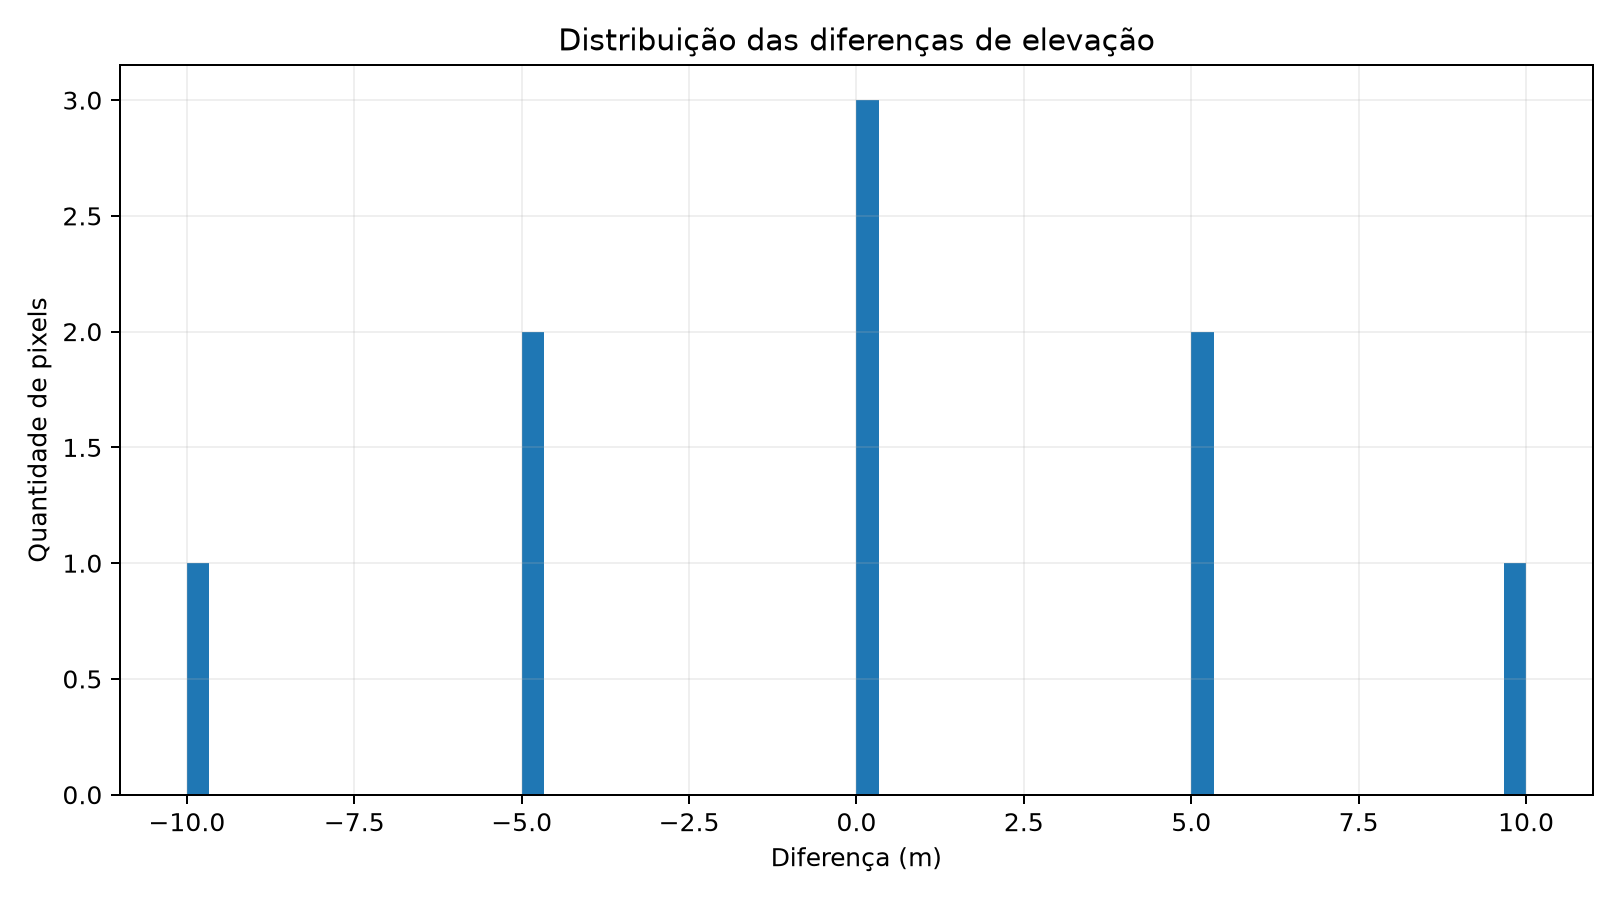
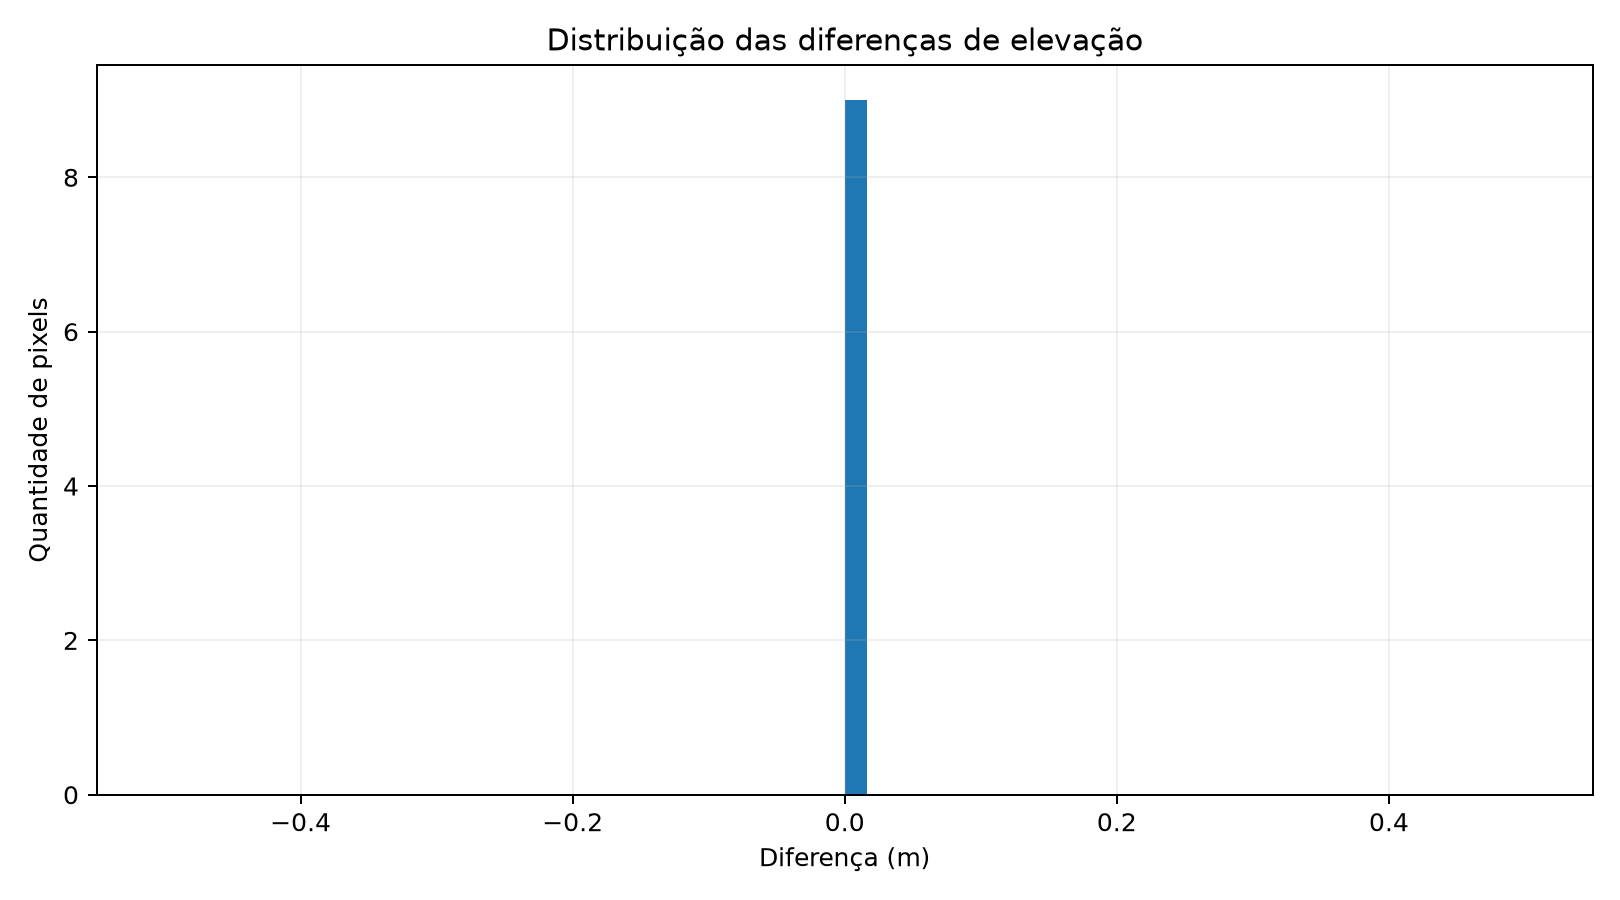
Add files via upload

diff --git a/analise-forense-terravision-matheus--main/teste_crs.py b/analise-forense-terravision-matheus--main/teste_crs.py
@@ -1,0 +1,47 @@
+import numpy as np
+import rasterio
+from rasterio.transform import from_bounds
+from rasterio.warp import transform_bounds
+
+# Limites geográficos aproximados do MDE anterior
+limites = transform_bounds(
+    "EPSG:4326",
+    "EPSG:3857",
+    -50.000,
+    -5.003,
+    -49.997,
+    -5.000
+)
+
+# Pequena margem para garantir cobertura completa
+largura = limites[2] - limites[0]
+altura = limites[3] - limites[1]
+
+esquerda = limites[0] - largura * 0.01
+direita = limites[2] + largura * 0.01
+inferior = limites[1] - altura * 0.01
+superior = limites[3] + altura * 0.01
+
+perfil = {
+    "driver": "GTiff",
+    "height": 6,
+    "width": 6,
+    "count": 1,
+    "dtype": "float32",
+    "crs": "EPSG:3857",
+    "transform": from_bounds(
+        esquerda, inferior, direita, superior, 6, 6
+    ),
+    "nodata": -9999
+}
+
+dados = np.full((6, 6), 100, dtype="float32")
+
+with rasterio.open(
+    "dados/entrada/posterior_crs.tif",
+    "w",
+    **perfil
+) as arquivo:
+    arquivo.write(dados, 1)
+
+print("GeoTIFF com CRS diferente criado!")

diff --git a/analise-forense-terravision-matheus--main/teste_dados_ausentes.py b/analise-forense-terravision-matheus--main/teste_dados_ausentes.py
@@ -1,0 +1,42 @@
+
+import numpy as np
+import rasterio
+from rasterio.transform import from_origin
+
+perfil = {
+    "driver": "GTiff",
+    "height": 3,
+    "width": 3,
+    "count": 1,
+    "dtype": "float32",
+    "crs": "EPSG:4326",
+    "transform": from_origin(-50, -5, 0.001, 0.001),
+    "nodata": -9999
+}
+
+# MDE anterior
+anterior = np.array([
+    [100, 100, 100],
+    [100, 100, 100],
+    [100, 100, 100]
+], dtype="float32")
+
+# MDE posterior com um pixel sem informação
+posterior = np.array([
+    [105, 100, 95],
+    [110, -9999, 90],
+    [105, 100, 95]
+], dtype="float32")
+
+for nome, dados in [
+    ("anterior_ausentes.tif", anterior),
+    ("posterior_ausentes.tif", posterior)
+]:
+    with rasterio.open(
+        f"dados/entrada/{nome}",
+        "w",
+        **perfil
+    ) as arquivo:
+        arquivo.write(dados, 1)
+
+print("Arquivos com dados ausentes criados!")

diff --git a/analise-forense-terravision-matheus--main/resultados/relatorio_minevision.md b/analise-forense-terravision-matheus--main/resultados/relatorio_minevision.md
@@ -2,9 +2,9 @@
 
 ## Identificação
 - **Área de estudo:** Serra dos Carajás, Pará
-- **Data de processamento:** 07/11/2026 11:26
+- **Data de processamento:** 09/11/2026 10:03
 - **MDE anterior:** `anterior.tif`
-- **MDE posterior:** `posterior.tif`
+- **MDE posterior:** `posterior_crs.tif`
 
 ## Objetivo
 Comparar dois modelos digitais de elevação (MDEs) espacialmente alinhados para identificar diferenças na superfície representada.
@@ -22,11 +22,11 @@ Valores negativos indicam uma superfície representada mais baixa no segundo mod
 | Pixels válidos | 9 |
 | Diferença média | 0.000 m |
 | Mediana | 0.000 m |
-| Mínima | -10.000 m |
-| Máxima | 10.000 m |
-| Desvio padrão | 5.774 m |
-| Percentil 5 | -8.000 m |
-| Percentil 95 | 8.000 m |
+| Mínima | 0.000 m |
+| Máxima | 0.000 m |
+| Desvio padrão | 0.000 m |
+| Percentil 5 | 0.000 m |
+| Percentil 95 | 0.000 m |
 
 ## Metadados espaciais
 - **CRS:** EPSG:4326
